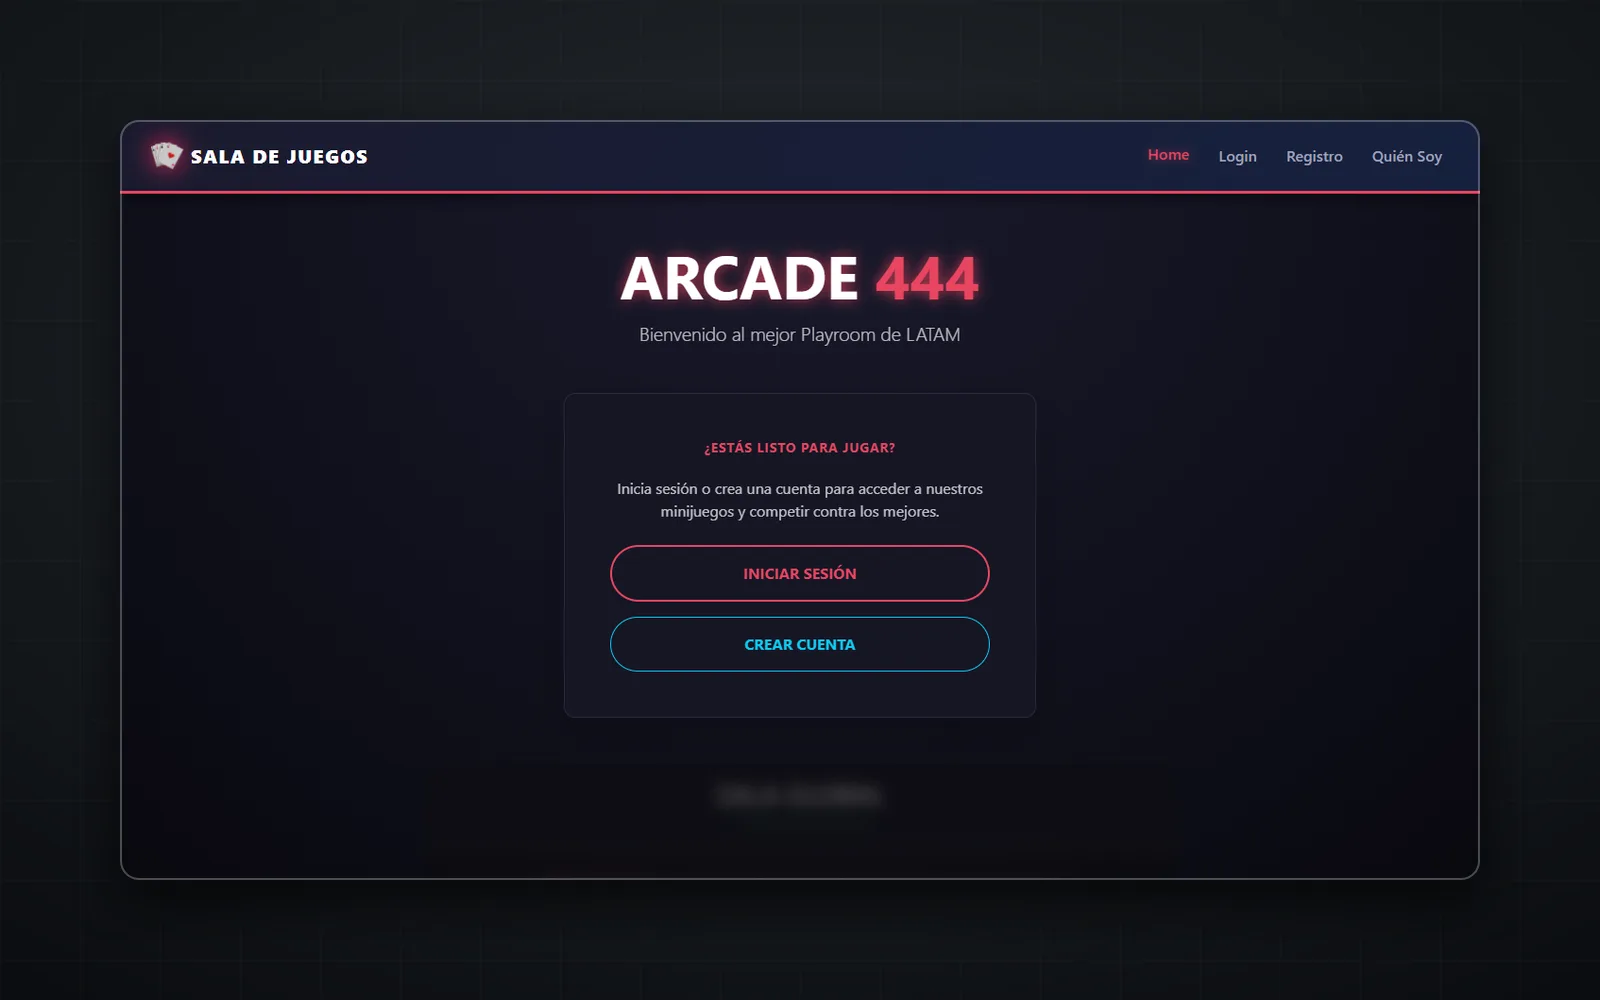
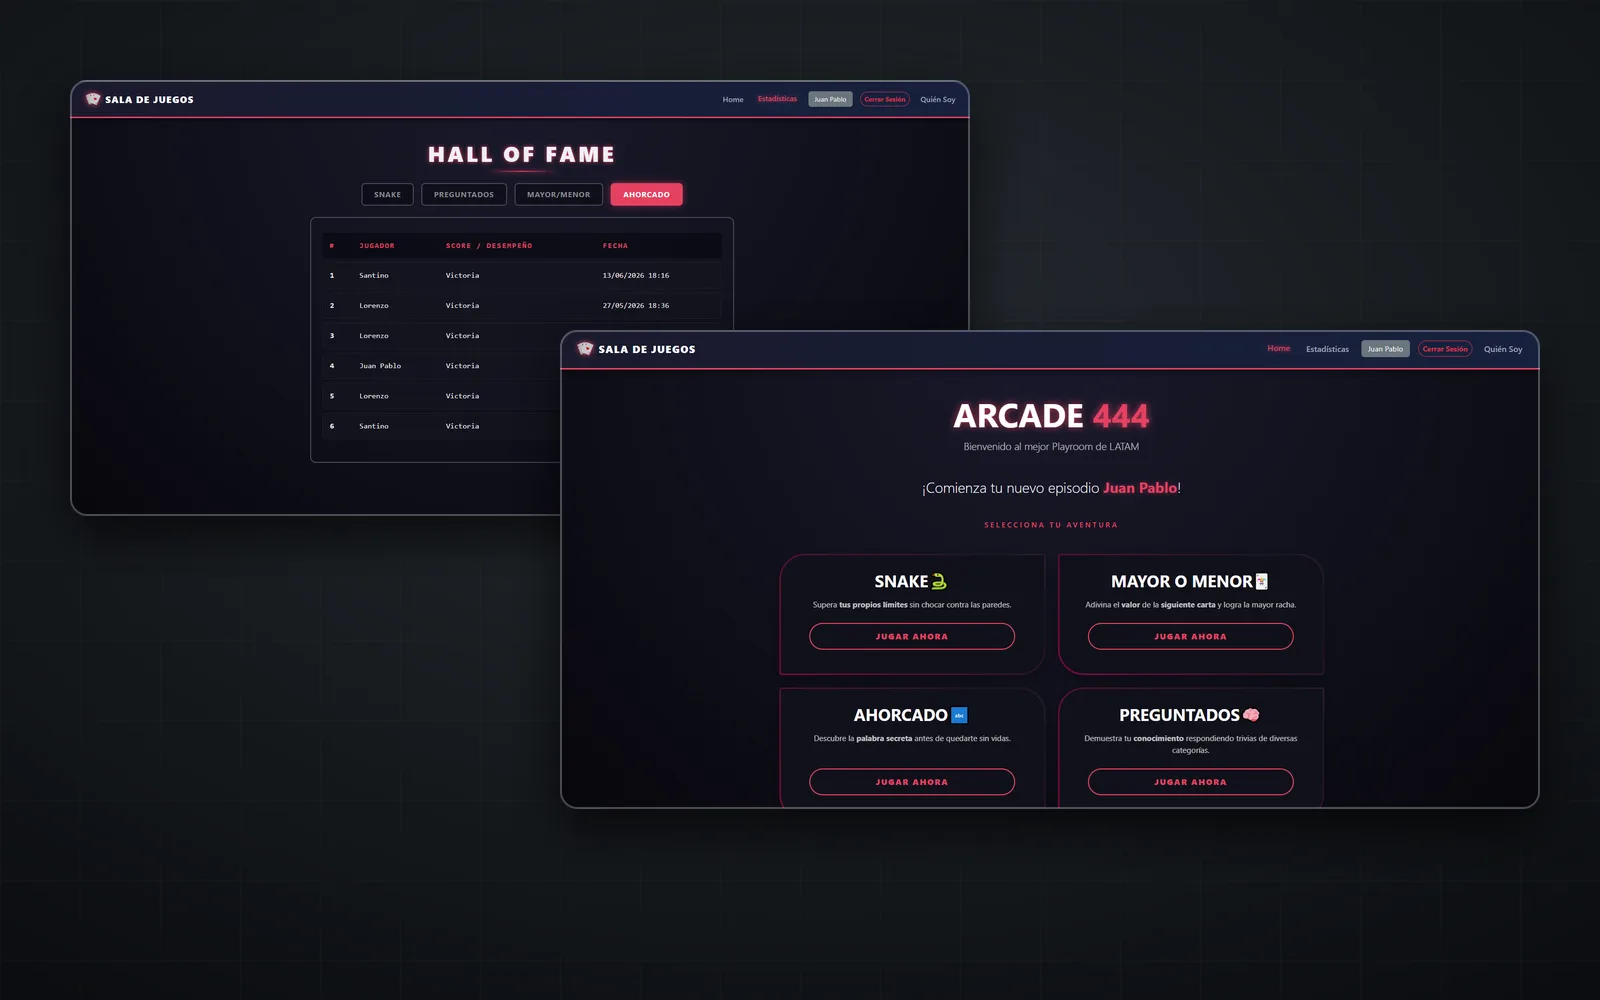
Más capturas de proyectos y formulario de contacto listo para producción
- Sala de Juegos: capturas de juegos, ahorcado y estadísticas; nueva portada.
- Proyectos demo: 3 pantallas nuevas por proyecto; etiqueta "Demo".
- Correo de contacto con fecha de recepción, error claro si falta
  configuración y script npm run email:test.

diff --git a/src/content/projects.ts b/src/content/projects.ts
@@ -13,7 +13,7 @@
  * y los demás en formato compacto.
  *
  * Los proyectos con `concept: true` son diseños propios (no trabajos para clientes)
- * y se muestran con la etiqueta "Concepto".
+ * y se muestran con la etiqueta "Demo".
  */
 
 export type ProjectImage = {
@@ -51,8 +51,8 @@ export type Project = {
   /** Proyectos de mayor complejidad: se muestran con más jerarquía. */
   featured?: boolean;
   /**
-   * Proyecto conceptual: diseño propio que muestra cómo resolveríamos un caso típico.
-   * Se identifica con la etiqueta "Concepto" y no se presenta como trabajo para un cliente.
+   * Proyecto demo: diseño propio que muestra cómo resolveríamos un caso típico.
+   * Se identifica con la etiqueta "Demo" (no es un trabajo entregado a un cliente).
    */
   concept?: boolean;
   /** Borrador: solo visible en desarrollo (npm run dev). Nunca se publica en producción. */
@@ -136,14 +136,14 @@ export const projects: Project[] = [
     ],
     featured: true,
   },
-  // ── Proyectos conceptuales: diseños propios, etiquetados como "Concepto" ──
+  // ── Proyectos demo: diseños propios, etiquetados como "Demo" ──
   {
     slug: "logistica-gestion-de-flota",
     name: "Logix — Gestión logística y de flota",
     summary:
       "Plataforma para planificar rutas, seguir envíos en tiempo real y coordinar flota y choferes, con app móvil para el reparto.",
     description:
-      "Concepto de sistema logístico compuesto por un panel web de operaciones y una aplicación móvil para choferes, pensado para empresas de distribución y última milla.",
+      "Sistema logístico compuesto por un panel web de operaciones y una aplicación móvil para choferes, pensado para empresas de distribución y última milla.",
     problem:
       "Las empresas de distribución suelen coordinar envíos, choferes y vehículos con planillas y mensajes, sin visibilidad del estado real de cada entrega.",
     solution:
@@ -163,7 +163,10 @@ export const projects: Project[] = [
     cover: cover("logistica-gestion-de-flota", "Panel de operaciones y app de choferes de Logix"),
     gallery: [
       img("logistica-gestion-de-flota", "panel.webp", "Panel de operaciones", 1440, 900),
-      img("logistica-gestion-de-flota", "app-chofer.webp", "App del chofer", 540, 1169),
+      img("logistica-gestion-de-flota", "envios.webp", "Listado y seguimiento de envíos", 1440, 900),
+      img("logistica-gestion-de-flota", "reportes.webp", "Reportes de cumplimiento", 1440, 900),
+      img("logistica-gestion-de-flota", "app-chofer.webp", "App del chofer: próximas entregas", 540, 1169),
+      img("logistica-gestion-de-flota", "app-comprobante.webp", "App del chofer: comprobante de entrega", 540, 1169),
     ],
     featured: true,
     concept: true,
@@ -239,7 +242,7 @@ export const projects: Project[] = [
     summary:
       "Sistema de reservas y administración para complejos de fútbol: agenda por cancha, señas online, torneos y caja.",
     description:
-      "Concepto de plataforma para complejos deportivos con un panel de administración y una app donde los jugadores reservan y pagan la seña de su turno.",
+      "Plataforma para complejos deportivos con un panel de administración y una app donde los jugadores reservan y pagan la seña de su turno.",
     problem:
       "Muchos complejos gestionan reservas por teléfono o mensajes, con turnos superpuestos, señas difíciles de controlar y horarios libres que no se ocupan.",
     solution:
@@ -259,7 +262,10 @@ export const projects: Project[] = [
     cover: cover("reservas-canchas-de-futbol", "Agenda y app de reservas de Canchas+"),
     gallery: [
       img("reservas-canchas-de-futbol", "agenda.webp", "Agenda de canchas", 1440, 900),
-      img("reservas-canchas-de-futbol", "app-reservas.webp", "App de reservas para jugadores", 540, 1169),
+      img("reservas-canchas-de-futbol", "torneo.webp", "Torneo: tabla de posiciones y fixture", 1440, 900),
+      img("reservas-canchas-de-futbol", "caja.webp", "Caja del día y pagos", 1440, 900),
+      img("reservas-canchas-de-futbol", "app-reservas.webp", "App: elegir horario", 540, 1169),
+      img("reservas-canchas-de-futbol", "app-confirmacion.webp", "App: reserva confirmada", 540, 1169),
     ],
     featured: true,
     concept: true,
@@ -269,7 +275,7 @@ export const projects: Project[] = [
     name: "Gestiona — Gestión comercial para PyMEs",
     summary: "Sistema de gestión con ventas, facturación, stock, compras, clientes y caja en un solo lugar.",
     description:
-      "Concepto de sistema de gestión comercial (ERP) para comercios y PyMEs que necesitan ordenar la operación diaria y tener información para decidir.",
+      "Sistema de gestión comercial (ERP) para comercios y PyMEs que necesitan ordenar la operación diaria y tener información para decidir.",
     problem:
       "Muchas PyMEs registran ventas, stock y cobros en herramientas separadas, lo que genera errores, faltantes de mercadería y poca visibilidad del negocio.",
     solution:
@@ -287,7 +293,12 @@ export const projects: Project[] = [
       "Tablero de indicadores y reportes",
     ],
     cover: cover("gestion-comercial-erp", "Tablero de Gestiona"),
-    gallery: [img("gestion-comercial-erp", "resumen.webp", "Resumen del negocio", 1440, 900)],
+    gallery: [
+      img("gestion-comercial-erp", "resumen.webp", "Resumen del negocio", 1440, 900),
+      img("gestion-comercial-erp", "factura.webp", "Emisión de factura", 1440, 900),
+      img("gestion-comercial-erp", "inventario.webp", "Inventario y niveles de stock", 1440, 900),
+      img("gestion-comercial-erp", "app-ventas.webp", "App: ventas del día", 540, 1169),
+    ],
     featured: true,
     concept: true,
   },
@@ -310,11 +321,13 @@ export const projects: Project[] = [
       "Chat global en tiempo real",
       "Estadísticas por jugador",
     ],
-    cover: cover("sala-de-juegos", "Pantalla de inicio de Arcade 444"),
+    cover: cover("sala-de-juegos", "Juegos y estadísticas de Arcade 444"),
     gallery: [
+      img("sala-de-juegos", "juegos.webp", "Selección de juegos", 1440, 704),
+      img("sala-de-juegos", "ahorcado.webp", "Juego del ahorcado", 1440, 703),
+      img("sala-de-juegos", "estadisticas.webp", "Estadísticas por jugador", 1440, 698),
       img("sala-de-juegos", "inicio.webp", "Pantalla de inicio", 1440, 900),
       img("sala-de-juegos", "login.webp", "Inicio de sesión", 1440, 900),
-      img("sala-de-juegos", "registro.webp", "Registro de usuarios", 1440, 900),
     ],
     links: { live: "https://y-gold-sigma-23.vercel.app" },
   },
@@ -323,7 +336,7 @@ export const projects: Project[] = [
     name: "Marea — Landing para fotógrafo",
     summary: "Landing page para un fotógrafo de bodas, retratos y marcas, con portfolio y consulta de fechas.",
     description:
-      "Concepto de landing page con estética cinematográfica para profesionales de la fotografía que necesitan mostrar su trabajo y recibir consultas.",
+      "Landing page con estética cinematográfica para profesionales de la fotografía que necesitan mostrar su trabajo y recibir consultas.",
     problem:
       "Un fotógrafo necesita que su trabajo se vea a la altura y que los interesados puedan consultar disponibilidad sin fricción.",
     solution: "Una landing rápida, con imágenes protagonistas, portfolio por categoría y un formulario de consulta de fechas.",
@@ -333,7 +346,12 @@ export const projects: Project[] = [
     technologies: ["Next.js", "Tailwind CSS"],
     features: ["Portfolio por categorías", "Consulta de fechas", "Imágenes optimizadas", "SEO y carga rápida"],
     cover: cover("landing-fotografo", "Landing page de Marea Fotografía"),
-    gallery: [img("landing-fotografo", "inicio.webp", "Inicio de la landing", 1440, 900)],
+    gallery: [
+      img("landing-fotografo", "inicio.webp", "Inicio de la landing", 1440, 900),
+      img("landing-fotografo", "portfolio.webp", "Portfolio por categorías", 1440, 900),
+      img("landing-fotografo", "paquetes.webp", "Paquetes y consulta de fecha", 1440, 900),
+      img("landing-fotografo", "mobile.webp", "Versión móvil", 540, 1169),
+    ],
     concept: true,
   },
   {
@@ -341,7 +359,7 @@ export const projects: Project[] = [
     name: "Dentalia — Landing para consultorio",
     summary: "Landing page para un consultorio odontológico con turnos online, tratamientos y contacto por WhatsApp.",
     description:
-      "Concepto de landing page para consultorios y centros de salud que quieren recibir turnos online y comunicar sus tratamientos con claridad.",
+      "Landing page para consultorios y centros de salud que quieren recibir turnos online y comunicar sus tratamientos con claridad.",
     problem: "Los pacientes buscan información clara y una forma simple de pedir turno, sin depender del teléfono.",
     solution: "Una landing clara y confiable con reserva de turnos, información de tratamientos y acceso directo a WhatsApp.",
     category: "Landing page",
@@ -350,7 +368,12 @@ export const projects: Project[] = [
     technologies: ["Next.js", "Tailwind CSS"],
     features: ["Reserva de turnos online", "Tratamientos y obras sociales", "Contacto por WhatsApp", "SEO local"],
     cover: cover("landing-consultorio-odontologico", "Landing page de Dentalia"),
-    gallery: [img("landing-consultorio-odontologico", "inicio.webp", "Inicio de la landing", 1440, 900)],
+    gallery: [
+      img("landing-consultorio-odontologico", "inicio.webp", "Inicio de la landing", 1440, 900),
+      img("landing-consultorio-odontologico", "turnos.webp", "Reserva de turnos online", 1440, 900),
+      img("landing-consultorio-odontologico", "tratamientos.webp", "Tratamientos y obras sociales", 1440, 900),
+      img("landing-consultorio-odontologico", "mobile.webp", "Versión móvil", 540, 1169),
+    ],
     concept: true,
   },
 ];

diff --git a/src/lib/email/send-contact-email.ts b/src/lib/email/send-contact-email.ts
@@ -8,7 +8,8 @@ import type { ContactInput } from "@/lib/contact/schema";
  * llegan al navegador. Ver README → "Configurar el envío de correos".
  */
 
-const RESEND_ENDPOINT = "https://api.resend.com/emails";
+// RESEND_API_URL solo se usa para pruebas locales; en producción se usa la API oficial.
+const RESEND_ENDPOINT = process.env.RESEND_API_URL || "https://api.resend.com/emails";
 
 export class EmailConfigError extends Error {}
 export class EmailDeliveryError extends Error {}
@@ -33,7 +34,16 @@ function row(label: string, value: string) {
   return `<tr><td style="padding:8px 16px 8px 0;color:#4B5563;font-size:13px;vertical-align:top;white-space:nowrap">${label}</td><td style="padding:8px 0;color:#0B0D10;font-size:14px">${value}</td></tr>`;
 }
 
+function receivedAt() {
+  return new Intl.DateTimeFormat("es-AR", {
+    dateStyle: "full",
+    timeStyle: "short",
+    timeZone: "America/Argentina/Buenos_Aires",
+  }).format(new Date());
+}
+
 function buildEmail(data: ContactInput) {
+  const date = receivedAt();
   const safe = {
     name: escapeHtml(data.name),
     company: data.company ? escapeHtml(data.company) : "—",
@@ -53,6 +63,7 @@ function buildEmail(data: ContactInput) {
     ${row("Correo", `<a href="mailto:${safe.email}" style="color:#0B0D10">${safe.email}</a>`)}
     ${row("Teléfono", safe.phone)}
     ${row("Tipo de proyecto", safe.projectType)}
+    ${row("Recibido", escapeHtml(date))}
   </table>
   <div style="margin-top:24px;padding:20px;background:#fff;border:1px solid #C0C6D4;border-radius:12px;color:#1F2328;font-size:14px;line-height:1.6">${safe.message}</div>
   <p style="margin-top:24px;color:#4B5563;font-size:12px">Respondé este correo para contestarle directamente a ${safe.email}.</p>
@@ -66,7 +77,9 @@ function buildEmail(data: ContactInput) {
     `Correo: ${data.email}`,
     `Teléfono: ${data.phone || "—"}`,
     `Tipo de proyecto: ${data.projectType}`,
+    `Recibido: ${date}`,
     "",
+    "Mensaje:",
     data.message,
   ].join("\n");
 

diff --git a/src/app/api/contact/route.ts b/src/app/api/contact/route.ts
@@ -8,6 +8,7 @@ import {
 } from "@/lib/contact/schema";
 import { rateLimit } from "@/lib/contact/rate-limit";
 import { EmailConfigError, sendContactEmail } from "@/lib/email/send-contact-email";
+import { siteConfig } from "@/content/site";
 
 export const runtime = "nodejs";
 
@@ -93,6 +94,8 @@ export async function POST(request: NextRequest) {
     // El detalle queda en los logs del servidor; al usuario solo un mensaje genérico.
     if (error instanceof EmailConfigError) {
       console.error("[contact] Configuración de correo incompleta:", error.message);
+      const fallback = siteConfig.contact.email ? ` Escribinos directamente a ${siteConfig.contact.email}.` : "";
+      return json({ ok: false, error: `El formulario no está disponible en este momento.${fallback}` }, 503);
     } else {
       console.error("[contact] Error al enviar el correo:", error);
     }

diff --git a/src/app/proyectos/[slug]/page.tsx b/src/app/proyectos/[slug]/page.tsx
@@ -90,12 +90,6 @@ export default async function ProjectPage({ params }: Props) {
             {project.name}
           </h1>
           <p className="mt-6 max-w-2xl text-lg leading-relaxed text-silver/80">{project.summary}</p>
-          {project.concept && (
-            <p className="mt-5 max-w-2xl border-l border-silver/30 pl-4 text-sm leading-relaxed text-mist">
-              Proyecto conceptual: diseño propio de Faro Solutions que muestra cómo abordaríamos este tipo de solución.
-              No corresponde a un trabajo para un cliente.
-            </p>
-          )}
         </Reveal>
 
         <Reveal delay={0.1} className="mt-12">

diff --git a/src/components/projects/ProjectCard.tsx b/src/components/projects/ProjectCard.tsx
@@ -25,14 +25,14 @@ function Meta({ project }: { project: Project }) {
   );
 }
 
-/** Identifica los proyectos conceptuales (diseños propios, no trabajos para clientes). */
+/** Identifica los proyectos demo (diseños propios, no trabajos entregados a clientes). */
 export function ConceptBadge() {
   return (
     <span
-      title="Proyecto conceptual: diseño propio de Faro Solutions"
+      title="Proyecto demo de Faro Solutions"
       className="rounded-full border border-silver/35 px-2 py-0.5 tracking-[0.12em] text-silver"
     >
-      Concepto
+      Demo
     </span>
   );
 }

diff --git a/src/components/sections/Projects.tsx b/src/components/sections/Projects.tsx
@@ -21,7 +21,7 @@ export function Projects() {
           id="proyectos-title"
           eyebrow="Proyectos"
           title="Lo que construimos"
-          description="Plataformas, sistemas y aplicaciones construidos de punta a punta. Los marcados como «Concepto» son diseños propios que muestran cómo resolvemos casos típicos."
+          description="Plataformas, sistemas y aplicaciones construidos de punta a punta."
         />
 
         {main ? (

diff --git a/README.md b/README.md
@@ -104,7 +104,11 @@ npm run brand:assets   # regenera favicon e íconos desde el isotipo
 4. Completar `CONTACT_TO_EMAIL` (dónde llegan las consultas) y `CONTACT_FROM_EMAIL` (una dirección del dominio verificado).
 5. Para probar sin dominio verificado se puede usar `CONTACT_FROM_EMAIL="Faro Solutions <onboarding@resend.dev>"`. En ese modo Resend solo entrega a la casilla dueña de la cuenta.
 
-Al responder un correo recibido, la respuesta va directo al cliente (`reply_to`).
+Al responder un correo recibido, la respuesta va directo al cliente (`reply_to`). El correo incluye todos los campos del formulario (nombre, empresa, correo, teléfono, tipo de proyecto y mensaje) y la fecha y hora de recepción.
+
+**Probar la configuración:** con las variables cargadas en `.env.local`, `npm run email:test` envía un correo de prueba a `CONTACT_TO_EMAIL`.
+
+Si faltan variables, el formulario no muestra una confirmación falsa: informa que no está disponible y ofrece el correo de contacto. Los errores de Resend se registran en los logs del servidor (en Vercel: **Logs** del proyecto).
 
 **Protecciones del formulario** (`src/app/api/contact/route.ts`):
 - Validación con Zod en el navegador **y** en el servidor (largos máximos, formato de correo y teléfono, caracteres de control).
@@ -148,7 +152,7 @@ Al responder un correo recibido, la respuesta va directo al cliente (`reply_to`)
 
 **Jerarquía visual:** el orden del array define el orden en pantalla. El primer proyecto con `featured: true` se muestra como proyecto principal (tarjeta a todo el ancho), los demás `featured` en tarjetas grandes y el resto en formato compacto. Hoy el principal es **ZonaSur Cars**, seguido por FMJ, Logix, Chido, Il Faro Cucina, Canchas+ y Gestiona.
 
-**Proyectos conceptuales:** `concept: true` marca un diseño propio que no fue un trabajo para un cliente (Logix, Canchas+, Gestiona, Marea y Dentalia). Se muestran con la etiqueta "Concepto", en el detalle llevan una aclaración y la sección de tecnologías se titula "Stack propuesto". Si alguno se convierte en un proyecto real, se reemplazan sus datos y capturas y se quita `concept: true`.
+**Proyectos demo:** `concept: true` marca un diseño propio que no fue un trabajo entregado a un cliente (Logix, Canchas+, Gestiona, Marea y Dentalia). Se muestran con la etiqueta "Demo" y la sección de tecnologías se titula "Stack propuesto". Si alguno se convierte en un proyecto real, se reemplazan sus datos y capturas y se quita `concept: true`.
 
 Las portadas (`cover.webp`, 1600×1000) se armaron sobre el fondo de marca: los proyectos reales con capturas de sus repositorios y sitios, y los conceptos con pantallas diseñadas para cada caso. Un proyecto también puede usar `draft: true` para verse solo en `npm run dev` y nunca en producción.
 
